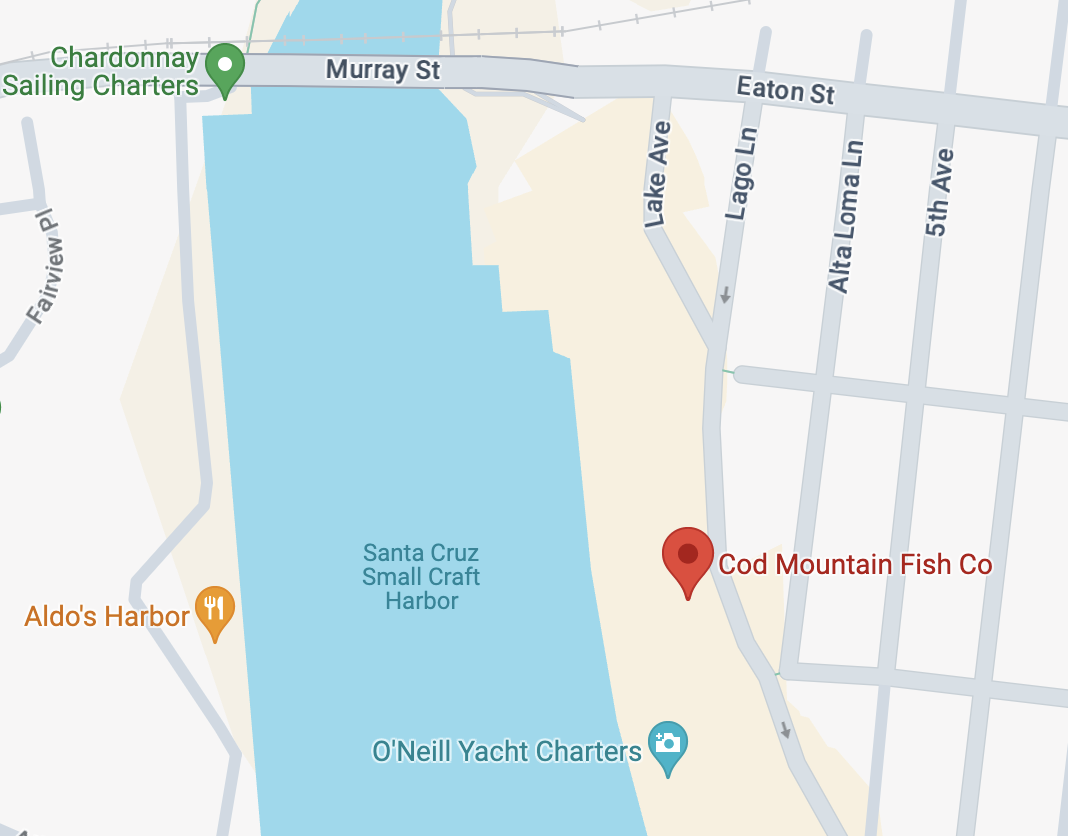
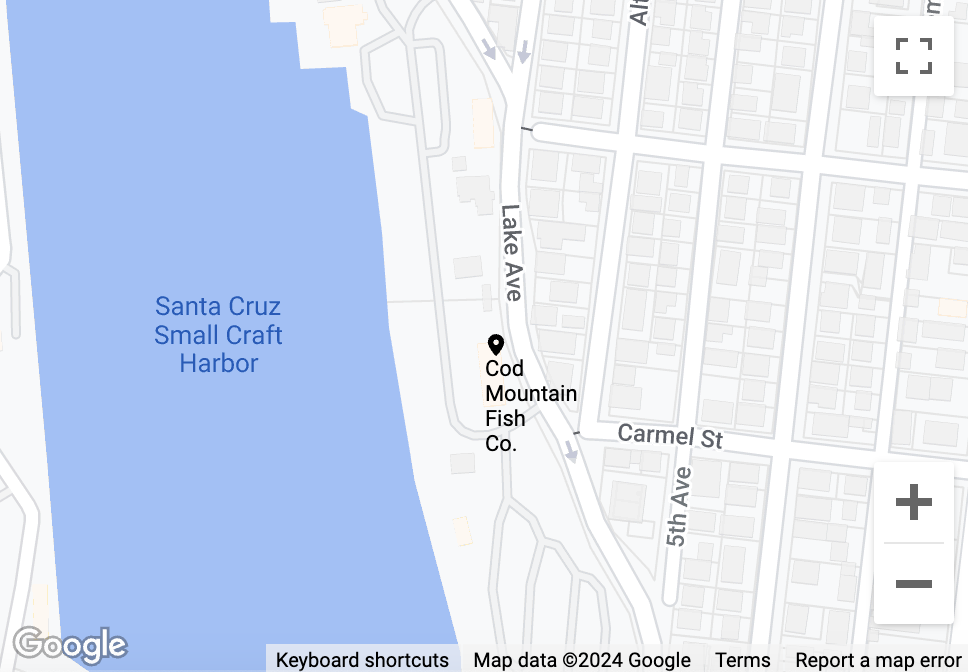
Change footer map

diff --git a/frontend/src/components/Footer/Footer.jsx b/frontend/src/components/Footer/Footer.jsx
@@ -3,15 +3,23 @@ import { Link } from "react-router-dom";
 import { FaFacebookF } from "react-icons/fa";
 import { FaInstagram } from "react-icons/fa";
 import Subscribe from "../SubscribeForm/Subscribe";
+import Map from "../Map/Map";
 
 export default function Footer() {
+  const location = {
+    address: 'Cod Mountain Fish Co.',
+    lat: 36.96578633181195,
+    lng: -122.00103392460099,
+  }
+
     return (
         <footer className="flex justify-evenly bg-teal-400 inset-x-0 bottom-0">
             <img className="object-contain mt-5 h-20 w-20" src="./logo.png" alt="Logo"></img>
             <Link to="/about">About Us</Link>
             <Link to="/contact">Contact Us</Link>
             <Link to="/trip-info">
-                <img className="object-contain h-20 w-20" src="./map.png" alt="Map"></img>
+            {/* <Map location={location} zoomLevel={17}/> */}
+            <img className="w-[250px] h-[150px]" src="./map.png" alt="map"></img>
             </Link>
             <Subscribe />
             <a
